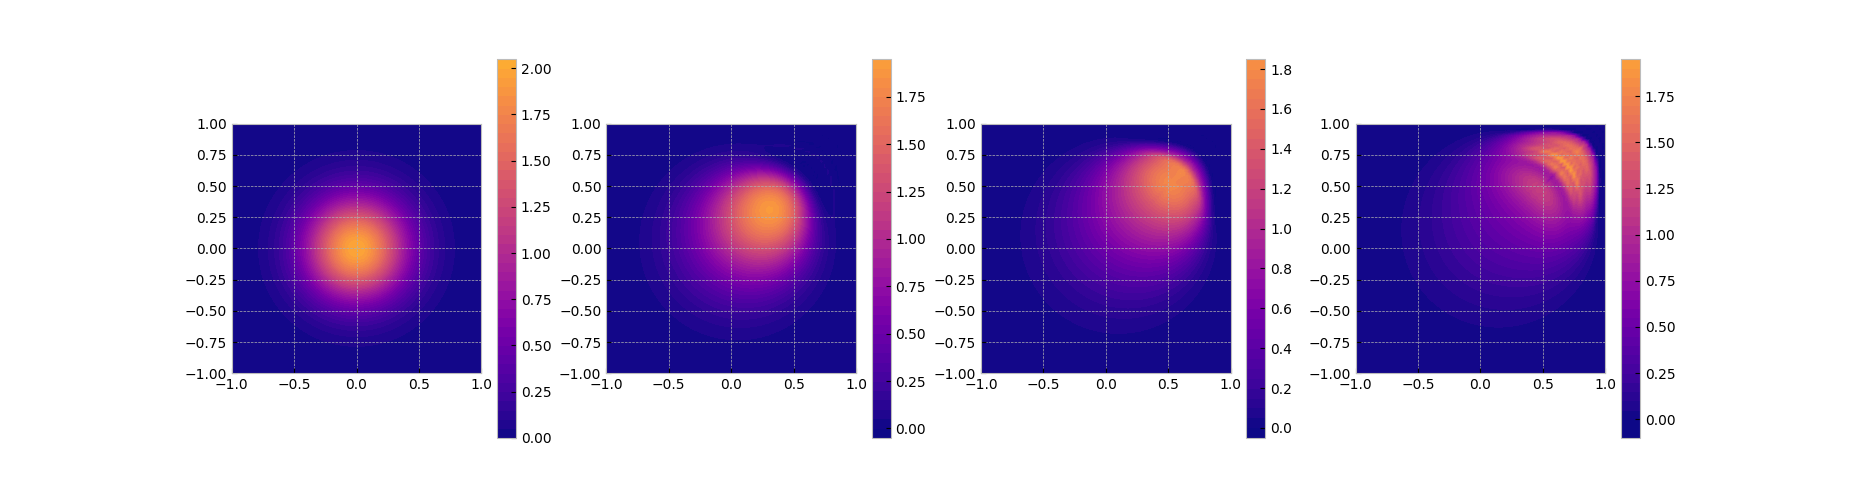
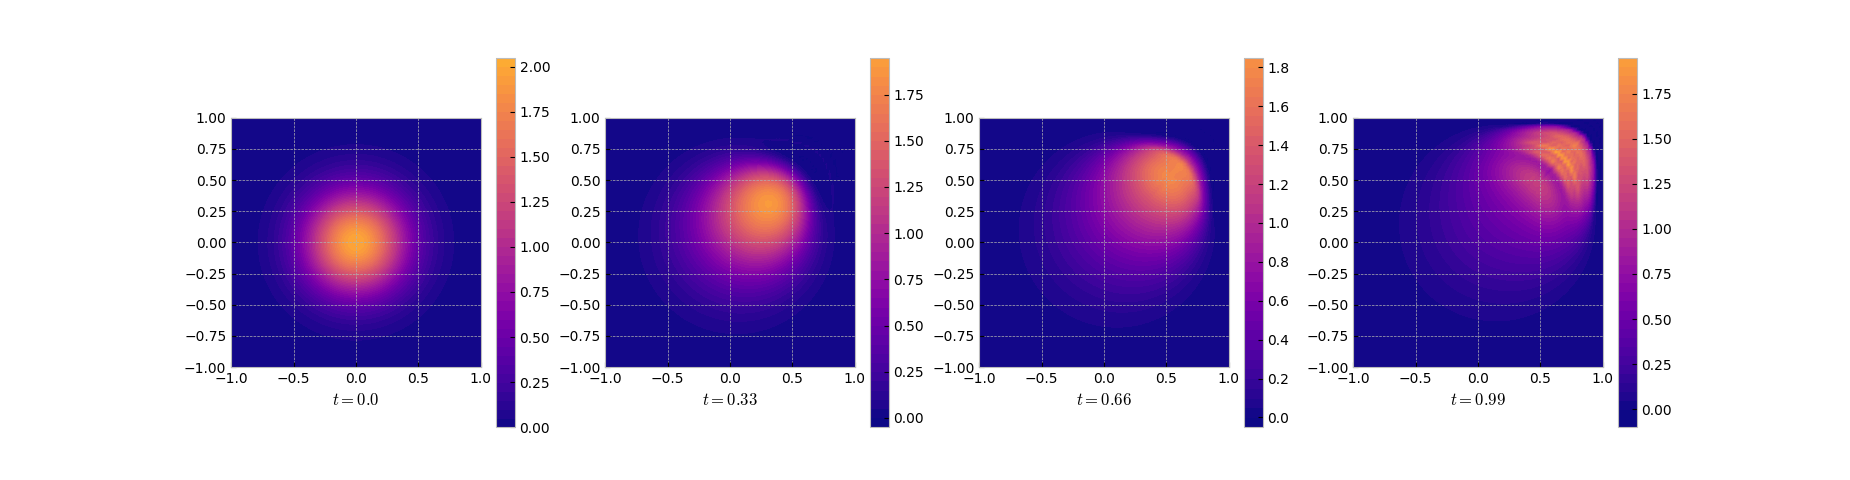
post upd

diff --git a/content/post/fenics-burger-pod-dmd/burgers.py b/content/post/fenics-burger-pod-dmd/burgers.py
@@ -193,7 +193,8 @@ dmdsol = np.array(dmdsol).T
 for k, cidx in enumerate(pltgrid):
     csol = dmdsol[:, cidx]
     fsol = fullsol[:, cidx]
-    plotabs(csol, fignum=8, vmax=vmax, spcls=nplts, spidx=k+1)
+    xlab = '$t={0}$'.format(timegrid[cidx])
+    plotabs(csol, fignum=8, vmax=vmax, spcls=nplts, spidx=k+1, xlabel=xlab)
 
 tlist, errlist = [], []
 for k, cidx in enumerate(pltgrid):

diff --git a/content/post/fenics-burger-pod-dmd/index.md b/content/post/fenics-burger-pod-dmd/index.md
@@ -215,6 +215,22 @@ integration.
 
 # 2. POD Reduced Model
 
+If one has snapshots of the solution $v _ h$ at some time instances $t _ i$ one
+may well think that the span of the matrix of snapshots
+
+$$
+X = 
+\begin{bmatrix}
+v _ h(t_0) & v _ h(t_2) & \dotsm & v _ h(t_k)
+\end{bmatrix}
+$$
+
+is a good candidate for a space in which the solution evolves in. One may even
+go further and look for a low-dimensional basis of this space. The span of a
+matrix is best approximated by its dominant singular vectors. And this is the idea of
+*Proper Orthogonal Decomposition* (POD) -- use the leading singular vectors as a
+basis for the solution space.
+
 We use the `Nts=101` snapshots of the FEM solutions to setup the matrix of
 measurements $X$ and to compute the POD modes as $M^{-1/2}v _ k$, where $v _ k$
 is the $k$-th leading left singular vector of $M^{1/2}X$. This procedure gives a
@@ -284,9 +300,43 @@ in the smooth regime in the beginning and has its troubles approximating the fro
 
 # 3. DMD Reduced Model
 
-For the reduced DMD model we use the same snapshot matrix as for the POD and the
-SVD to compute the needed pseudo inverse since this naturally allows for a rank
-reduction and a factored representation of the DMD matrix.
+POD is partially data driven -- it uses data to create a basis but still
+uses (a projection of) the model. If only snapshots but no model is given, one
+may use the method of *Dynamic Mode Decomposition*[^2] (DMD) that tries to identify
+a matrix $A$ that evolves the state like
+
+$$
+A v _ h (t_i) = v _ h (t _ {i+1})
+$$
+
+In practice, one uses a set of snapshots and the two measurement matrices
+
+$$
+X = 
+\begin{bmatrix}
+v _ h(t_0) & v _ h(t_2) & \dotsm & v _ h(t _ {k-1})
+\end{bmatrix}
+$$
+and
+$$
+X' =
+\begin{bmatrix}
+v _ h(t_1) & v _ h(t_2) & \dotsm & v _ h(t _ {k})
+\end{bmatrix}.
+$$
+
+Note that $X'$ is basically $X$ shifted by one time step. 
+
+Then the DMD matrix can be found by solving the linear regression problem
+
+$$
+\min _ P \| X' - PX \| _ F.
+$$
+
+For the reduced DMD model we use the same snapshot matrix as for the POD. The
+regression problem is solved via SVD to compute the needed pseudo inverse since
+this naturally allows for a rank reduction and a factored representation of the
+DMD matrix.
 
 ```python
 # ### dmd using truncated svd inverse
@@ -299,7 +349,13 @@ uxr, sxr, vxhr = ux[:, :poddim], sx[:poddim], vxh[:poddim, :]
 # compute the dmd matrix in factored form: `dmda = dmdaone * dmdatwo`
 dmdaone = Xdsh.dot(vxhr.T)
 dmdatwo = np.linalg.solve(np.diag(sxr), uxr.T)
+```
 
+Once the DMD matrix $A$ is determined, the simulation of the DMD reduced model
+is only a repeated multiplication by $A$.
+
+
+```python
 # simulation of the dmd reduced model
 dmdxo = inivvec
 dmdsol = [dmdxo]
@@ -320,10 +376,18 @@ initial phase but fails in the region with the sharp front.
 It is commonly accepted that POD does not work well for transport dominated
 problems -- like the current case with the low viscosity parameter `nu=1e-4`.
 
-So, I think that the results for POD are quite good. One can use a larger `nu`
-to get better POD approximations. In my tests, increasing the number of basis
-functions did not help much.
+So, I think that the results for POD are quite good noting that the reduced
+order model has 25 degrees of freedom whereas the full model has 51842.
+Nonetheless, in my tests, increasing the number of basis functions did not help
+much. One can use a larger `nu` to get better POD approximations. 
 
-[^1]: See, e.g., Lemma 2.5 of Baumann, Benner, and Heiland: *Space-Time Galerkin POD
-  with Application in Optimal Control of Semi-linear Parabolic Partial
-  Differential Equations* (2018).
+The DMD approach shows a similar performance. If compared to POD, the
+qualitative approximation looks less good but the numbers are slightly better.
+All in all, the DMD approximation seems less reliable as for some parameter
+choices, the performance severely deteriorated.
+
+[^1]: See, e.g., Lemma 2.5 of Baumann, Benner, and Heiland (2018): *Space-Time Galerkin POD with Application in Optimal Control of Semi-linear Parabolic Partial
+  Differential Equations.* [arXiv:1611.04050](https://arxiv.org/abs/1611.04050)
+
+[^2]: See, e.g., Tu, Rowley, Luchtenburg, Brunton, Kutz (2013): *On Dynamic Mode
+  Decomposition: Theory and Applications* [arXiv:1312.0041](https://arxiv.org/abs/1312.0041)
